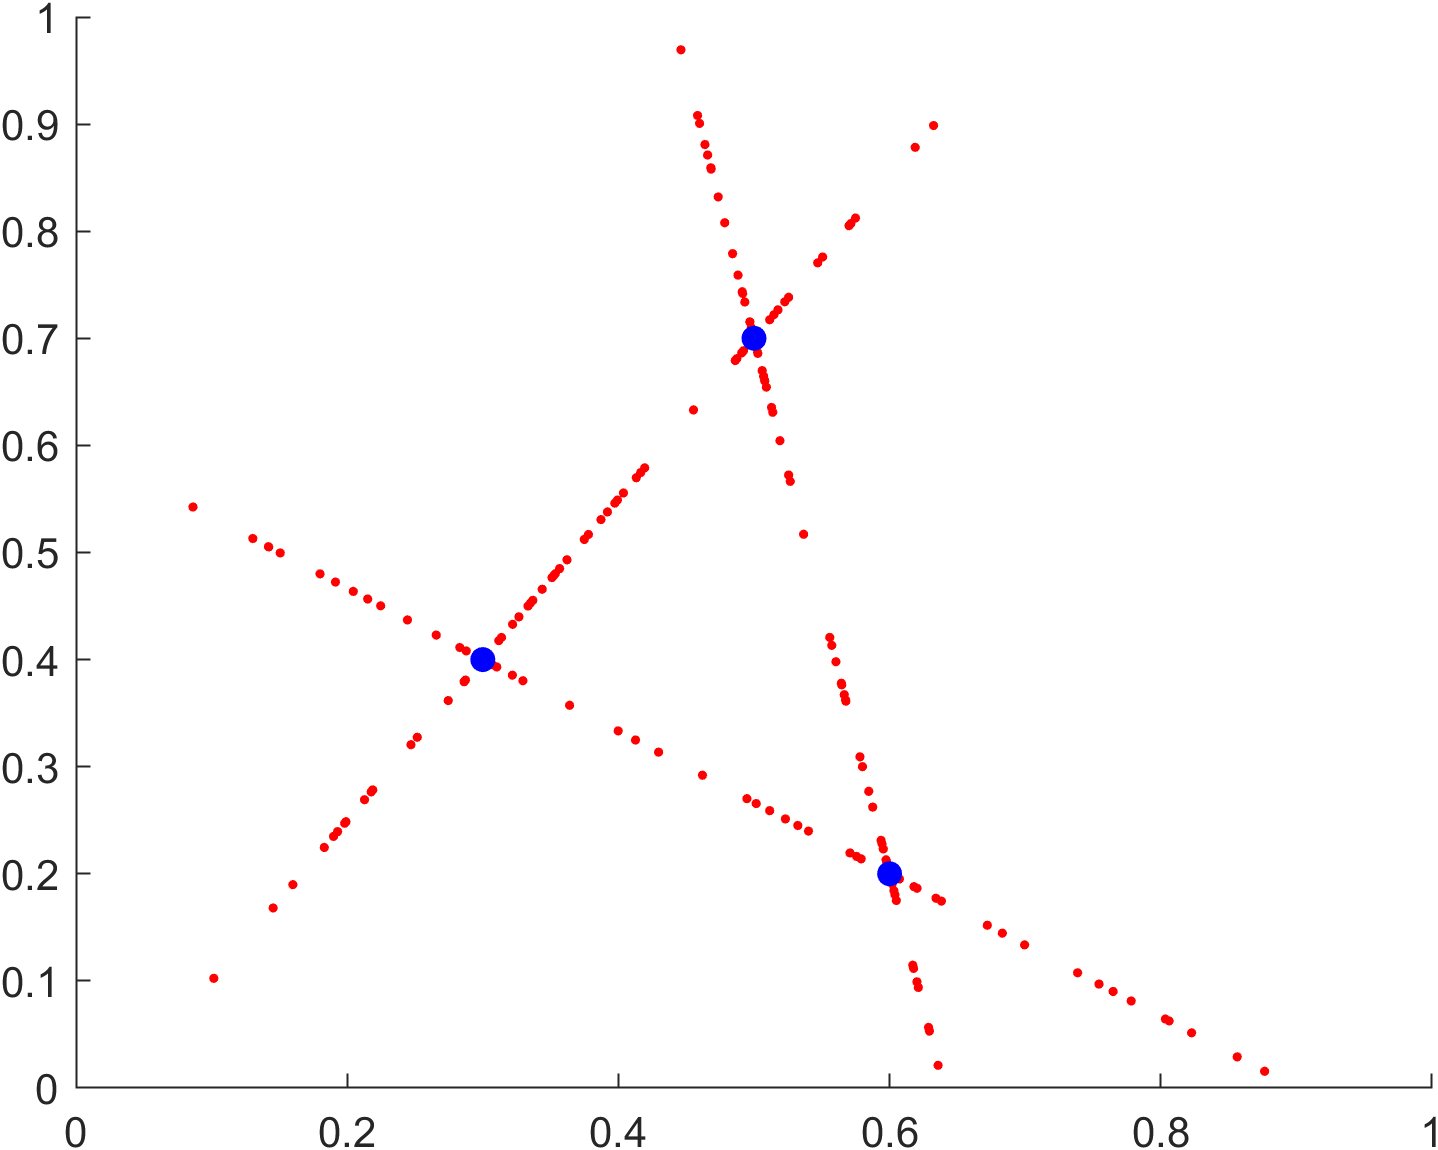
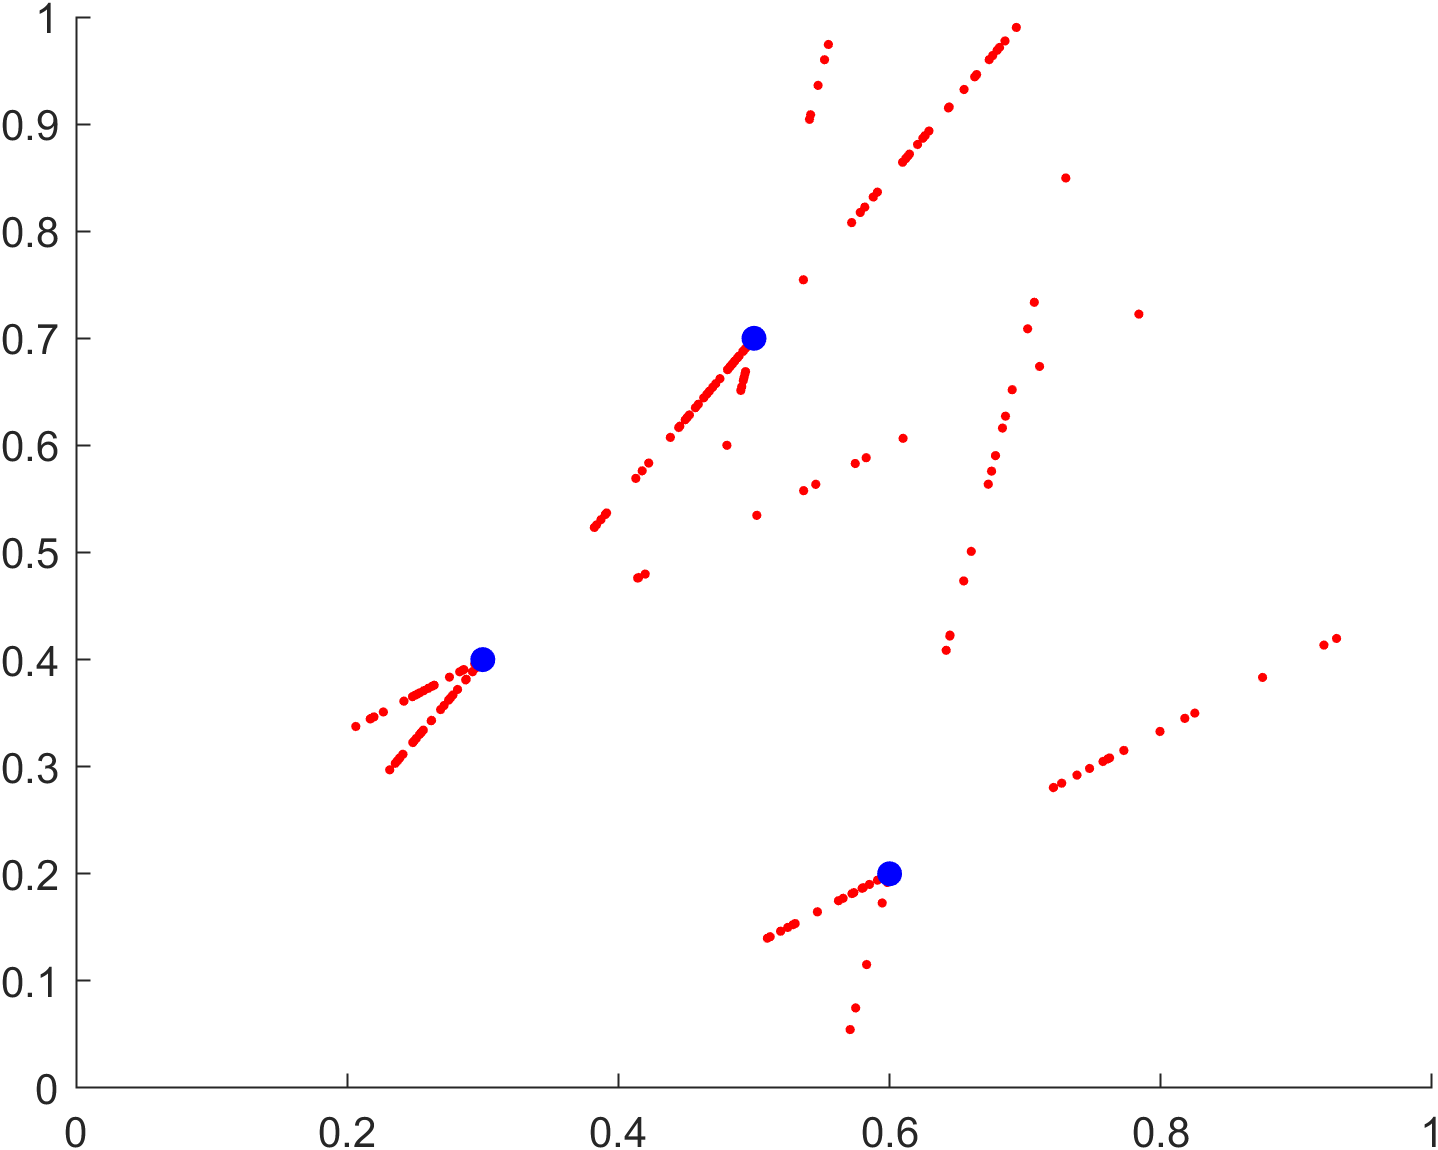
corrected RSBX and cmax vis

diff --git a/VisualizeOperators.m b/VisualizeOperators.m
@@ -4,11 +4,10 @@ close all; clc;
 Population = [0.3 0.4; 0.6 0.2; 0.5 0.7];
 
 Operators = {MyDE(), MyLCX(), MyLX(), MyRSBX(), MySBX(), MyUX()};
-%Operators = {MyLX()};
 for operator = Operators
     c = linspace(1,10,3);
     Pop = Population;
-    f = figure('Name', operator{1}.TAG)
+    f = figure('Name', operator{1}.TAG);
     axis([0 1 0 1]);
     hold on
     for i=1:100
@@ -20,32 +19,25 @@ for operator = Operators
     hold off
     
     exportgraphics(f, operator{1}.TAG + '.png','Resolution',300)
- end
-
-
-Operators = {MyCMAX()};
-Population = [0.4 0.5; 0.5 0.6; 0.6 0.5; 0.5 0.4];
-
-for operator = Operators
-    c = linspace(1,10,3);
-    Pop = Population;
-    figure('Name', operator{1}.TAG)
-    axis([0 1 0 1]);
-    hold on
-
-    scatter(Population(:,1), Population(:,2), 'filled', 'b');
-        
-    x = operator{1}.Cross(Pop);
-    scatter(x(:,1), x(:,2), 9, 'b', 'filled');
-    Pop = x;
-    
-    x = operator{1}.Cross(Pop);
-    scatter(x(:,1), x(:,2), 6, 'g', 'filled');
-    Pop = x;
-    
-    x = operator{1}.Cross(Pop);
-    scatter(x(:,1), x(:,2), 3, 'r', 'filled');
-
-    hold off
 end
+
+
+Operator = MyCMAX();
+Population = [0.3 0.4; 0.6 0.2; 0.5 0.7];
+
+c = linspace(1,10,3);
+Pop = Population;
+f = figure('Name', Operator.TAG);
+axis([0 1 0 1]);
+hold on
+for i=1:100
+    Pop = Pop(randperm(length(Pop)),:);
+    x = Operator.Cross(Pop);
+    scatter(x(:,1), x(:,2), 5, 'r', 'filled');
+end
+scatter(Population(:,1), Population(:,2), 'filled', 'b');
+hold off
+
+%exportgraphics(f, Operator.TAG + '.png','Resolution',300)
+
 

diff --git a/Operators/MyLX.m b/Operators/MyLX.m
@@ -30,8 +30,8 @@ classdef MyLX < XOPERATOR
             beta(u<=0.5) = a - b*reallog(u(u<=0.5));
             beta(u>0.5) = a + b*reallog(u(u>0.5));
 
-            Offspring = [Parent1 + beta(1:floor(end/2))' .* (Parent1-Parent2) % abs(Parent1-Parent2) 
-                Parent2 + beta(floor(end/2)+1:floor(end/2)*2)' .* (Parent1-Parent2)]; %abs(Parent1-Parent2) 
+            Offspring = [Parent1 + beta(1:floor(end/2))' .* abs(Parent1-Parent2) % abs(Parent1-Parent2) 
+                Parent2 + beta(floor(end/2)+1:floor(end/2)*2)' .* abs(Parent1-Parent2)]; %abs(Parent1-Parent2) 
 
             if(restructure)
                 Offspring = SOLUTION(Offspring,[], repelem(obj.TAG, N, 1));

diff --git a/Operators/MyRSBX.m b/Operators/MyRSBX.m
@@ -49,10 +49,11 @@ classdef MyRSBX
                          (Parent1+Parent2)/2-beta.*(Parent1-Parent2)/2];
 
 
-
-            for i=1:N
-                Offspring(i,:) = Offspring(i,:)/V + m;
-            end
+            %funktioniert das auch? 
+            Offspring = Offspring/V + m;
+%             for i=1:N
+%                 Offspring(i,:) = Offspring(i,:)/V + m;
+%             end
 
             if(restructure)
                 Offspring = SOLUTION(Offspring,[], repelem(obj.TAG, N*2, 1));
